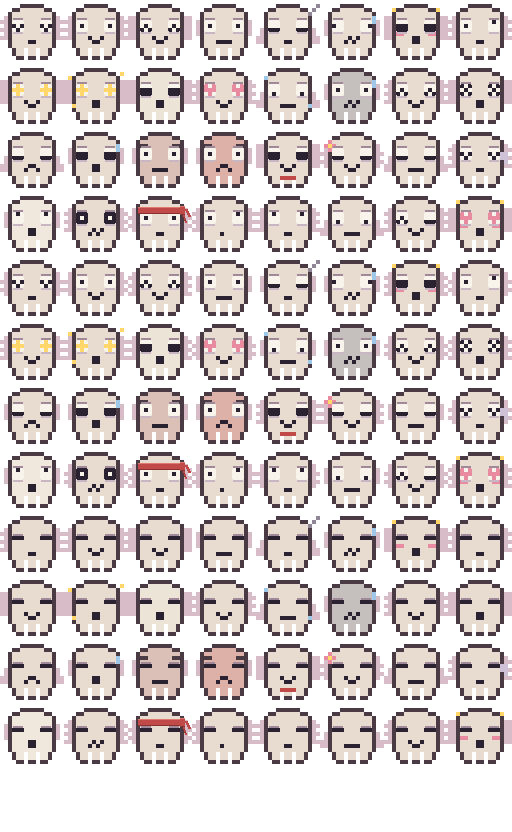
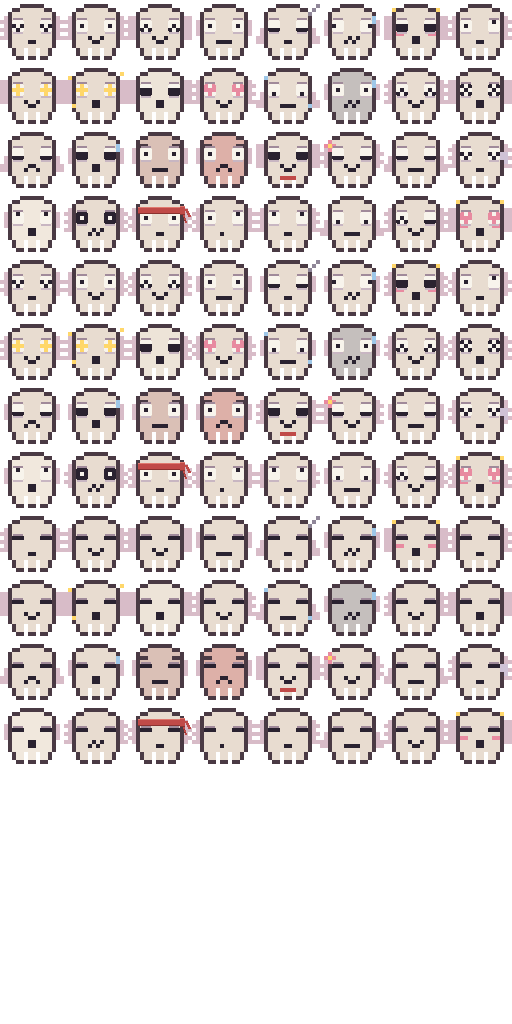
feat: per-mood mantle masks - the flow hugs the actual features
One shared mask excluded the union of all possible mouth positions, which
left dead clean-skin corners around small mouths - a grid overlay on the
flow. Rows 12-15 now hold one mask per mood, excluding only that
expression's actual mouth and extras (+1px margin); eyes and the hachimaki
stay constant anatomy.

diff --git a/scripts/gen-sepia.js b/scripts/gen-sepia.js
@@ -159,7 +159,7 @@ const MOODS = [
 if (MOODS.length !== 32) throw new Error("expected 32 moods, got " + MOODS.length);
 BASE.forEach((r, i) => { if (r.length !== 16) throw new Error("BASE row " + i + " length " + r.length); });
 
-const SCALE = 4, CELL = 64, COLS = 8, ROWS = 13, FRAME_ROWS = 4;   // rows 0-11: 3 frames × 32 moods; row 12: the mantle mask cell
+const SCALE = 4, CELL = 64, COLS = 8, ROWS = 16, FRAME_ROWS = 4;   // rows 0-11: 3 frames × 32 moods; rows 12-15: PER-MOOD mantle masks
 const W = CELL * COLS, H = CELL * ROWS;
 const px = Buffer.alloc(W * H * 4);   // RGBA, transparent
 const hex = c => [parseInt(c.slice(1, 3), 16), parseInt(c.slice(3, 5), 16), parseInt(c.slice(5, 7), 16)];
@@ -234,22 +234,33 @@ MOODS.forEach((mood, i) => { for (let frame = 0; frame < 3; frame++) {
   }
 } });
 
-// ---- the mantle mask cell (row 12, col 0): white where smooth chromatophores may
-// glide. The renderer reads this at runtime for its continuous "sub-pixel time" layer
-// (block-frame body, smooth-drifting coloration). MUST stay in sync with okRaw above.
-{
-  const my0 = 12 * CELL;
+// ---- PER-MOOD mantle masks (rows 12-15, one cell per mood): white where smooth
+// chromatophores may glide FOR THAT EXPRESSION. A single shared mask excluded the union
+// of every possible mouth position — a fixed rectangle that left dead clean-skin
+// corners around small mouths, reading as a grid overlay on the flow (the maintainer's
+// catch). Each mask now excludes only this mood's ACTUAL feature pixels + 1px margin.
+MOODS.forEach((mood, i) => {
+  const mx0 = (i % COLS) * CELL, my0 = (12 + Math.floor(i / COLS)) * CELL;
+  const ex = new Uint8Array(CELL * CELL);                      // real-px exclusion: this mood's mouth + extras, with margin
+  const mark = (gx, gy) => {
+    for (let y = gy * SCALE - 1; y <= gy * SCALE + SCALE; y++)
+      for (let x = gx * SCALE - 1; x <= gx * SCALE + SCALE; x++)
+        if (x >= 0 && x < CELL && y >= 0 && y < CELL) ex[y * CELL + x] = 1;
+  };
+  mood[2].forEach(q => mark(q[0], q[1]));                      // the actual mouth, whatever shape this expression wears
+  (mood[4] || []).forEach(q => mark(q[0], q[1]));              // extras that sit on the mantle (brows, blush, flower…)
   const okM = (x, y) => {
     if (x < 0 || x >= CELL || y < 0 || y >= CELL) return false;
     if (BASE[y >> 2][x >> 2] !== "b") return false;
-    if (y >= 17 && y <= 34 && ((x >= 11 && x <= 24) || (x >= 39 && x <= 52))) return false;
-    if (x >= 22 && x <= 41 && y >= 34 && y <= 44) return false;
+    if (y >= 17 && y <= 34 && ((x >= 11 && x <= 24) || (x >= 39 && x <= 52))) return false;   // eyes + lashes (constant anatomy)
+    if (ex[y * CELL + x]) return false;
+    if (mood[0] === "resolute" && x >= 8 && x <= 61 && y >= 13 && y <= 32) return false;      // the hachimaki band, knot, and tails
     return true;
   };
   const okE = (x, y) => okM(x, y) && okM(x - 1, y) && okM(x + 1, y) && okM(x, y - 1) && okM(x, y + 1);
   for (let y = 0; y < CELL; y++) for (let x = 0; x < CELL; x++)
-    if (okE(x, y)) put(x, my0 + y, "#ffffff");
-}
+    if (okE(x, y)) put(mx0 + x, my0 + y, "#ffffff");
+});
 
 // minimal PNG encoder: signature + IHDR + IDAT (deflated 0-filtered scanlines) + IEND
 const CRC_TABLE = (() => {